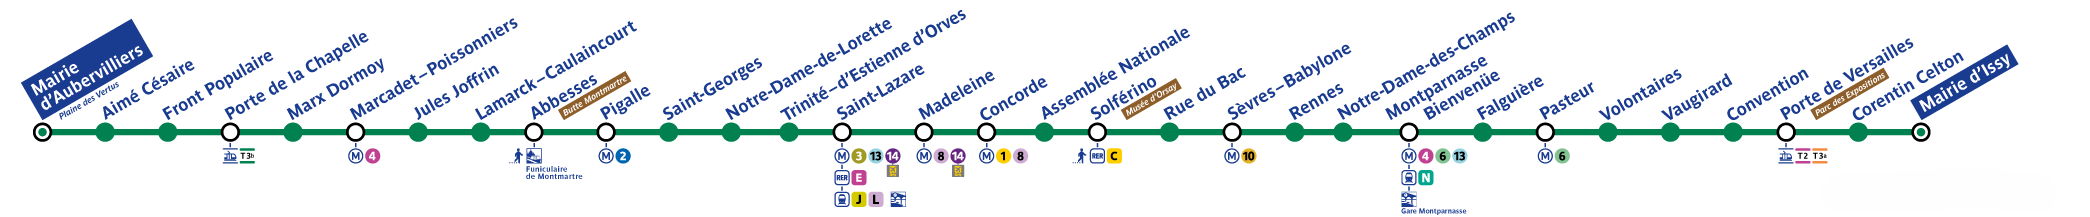
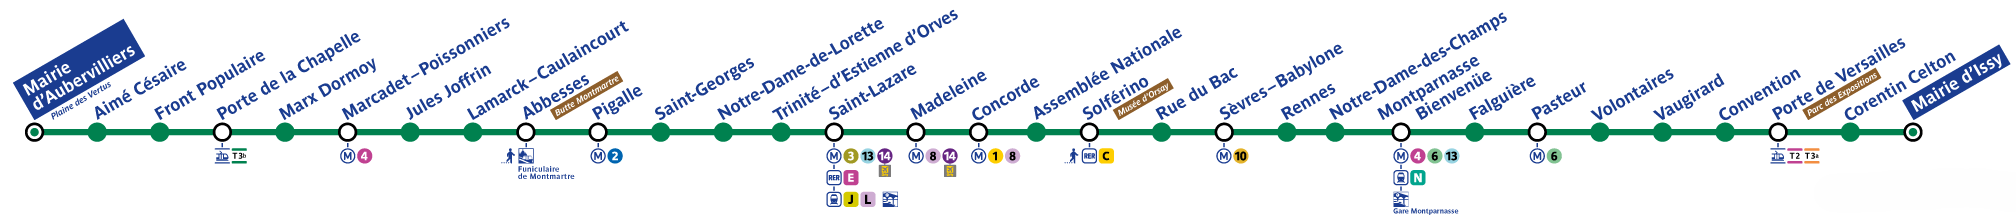
commit message

Changed region(s): [[0.0, 0.0553, 1.0, 0.9677], [0.6562, 0.8848, 0.7188, 0.9954], [0.0938, 0.6912, 0.125, 0.7465]]

diff --git a/src/PageCarte.css b/src/PageCarte.css
@@ -1,8 +1,6 @@
 /* src/PageCarte.css */
 .carte-container {
   width: 100%;
-  
-  /* --- AJOUT ICI --- */
   animation: fadeInUp 0.4s ease-out;
 }
 
@@ -21,14 +19,7 @@
 }
 
 .carte-image-wrapper {
-  /* Permet le défilement horizontal */
-  overflow-x: auto; 
-  
-  /* --- CORRECTION : CACHER LA SCROLLBAR --- */
-  -ms-overflow-style: none; /* Cache la barre pour IE/Edge */
-  scrollbar-width: none;  /* Cache la barre pour Firefox */
-  /* --- FIN CORRECTION SCROLLBAR --- */
-
+  /* overflow-x a été supprimé */
   width: 100%;
   background-color: #fff;
   border-radius: 16px;
@@ -37,14 +28,10 @@
   box-sizing: border-box;
 }
 
-/* Règle spécifique pour WebKit (Chrome, Safari) */
-.carte-image-wrapper::-webkit-scrollbar {
-    display: none;
-}
+/* Les règles de scrollbar ont été supprimées */
 
 .carte-image-wrapper img {
-  /* Force l'image à être plus large que le conteneur */
-  min-width: 1200px;
+  /* min-width a été supprimé */
   width: 100%; 
   height: auto;
 }
@@ -63,7 +50,9 @@
   .carte-image-wrapper {
     padding: 10px;
   }
-  .carte-image-wrapper img {
-    min-width: 900px;
-  }
+  
+  /* --- CORRECTION ICI --- */
+  /* Le sélecteur .carte-image-wrapper img 
+     a été totalement supprimé car il était vide.
+  */
 }

diff --git a/src/PageCarte.jsx b/src/PageCarte.jsx
@@ -1,23 +1,22 @@
-// src/PageCarte.jsx
 import React from 'react';
 import './PageCarte.css';
 
 export default function PageCarte() {
-  return (
-    <div className="carte-container">
-      <h1>Carte du Réseau</h1>
-      <p>Un plan complet des lignes de métro actuelles et futures, incluant le Grand Paris Express.</p>
-      
-      <div className="carte-image-wrapper">
-        <img 
-          src="/assets/plan-paris.png" 
-          alt="Plan du métro de Paris" 
-        />
-      </div>
+  return (
+    <div className="carte-container">
+      <h1>Carte du Réseau</h1>
+      <p>Un plan complet des lignes de métro actuelles et futures, incluant le Grand Paris Express.</p>
       
-      <p className="note-carte">
-          Note : Faites défiler l'image horizontalement pour voir toute la carte.
-      </p>
-    </div>
-  );
+      <div className="carte-image-wrapper">
+        <img 
+          src="/assets/plan-paris.png" 
+          alt="Plan du métro de Paris" 
+        />
+      </div>
+      
+      {/* J'ai supprimé la <p className="note-carte"> ici, 
+        car il n'y a plus besoin de défiler.
+      */}
+    </div>
+  );
 }
